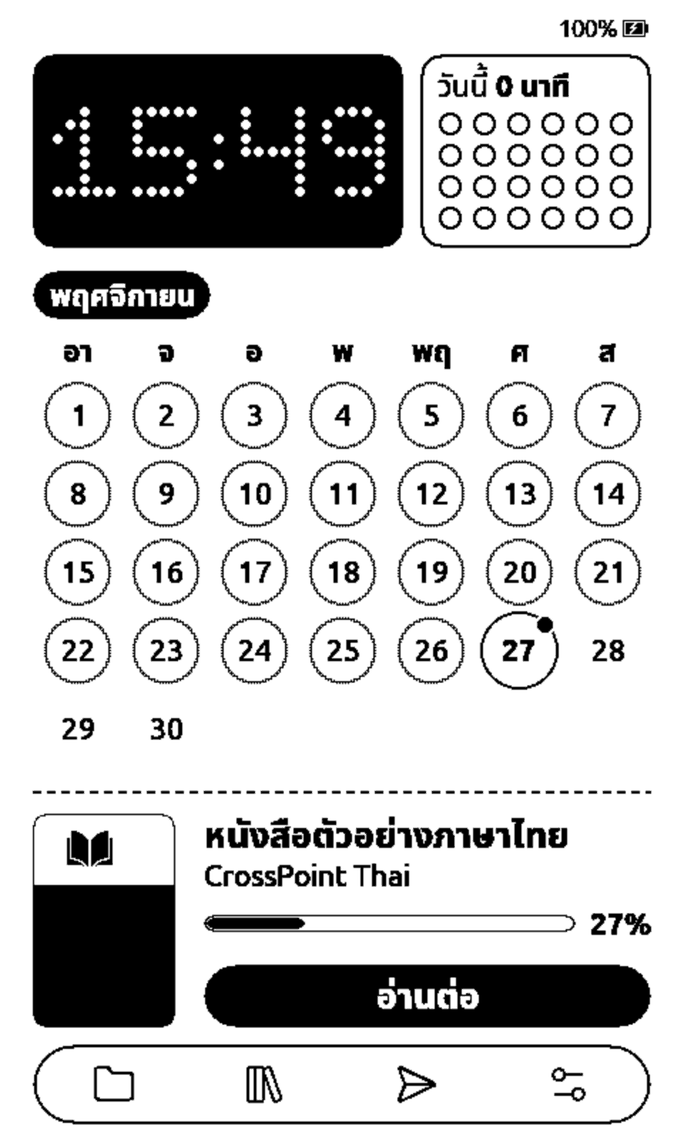
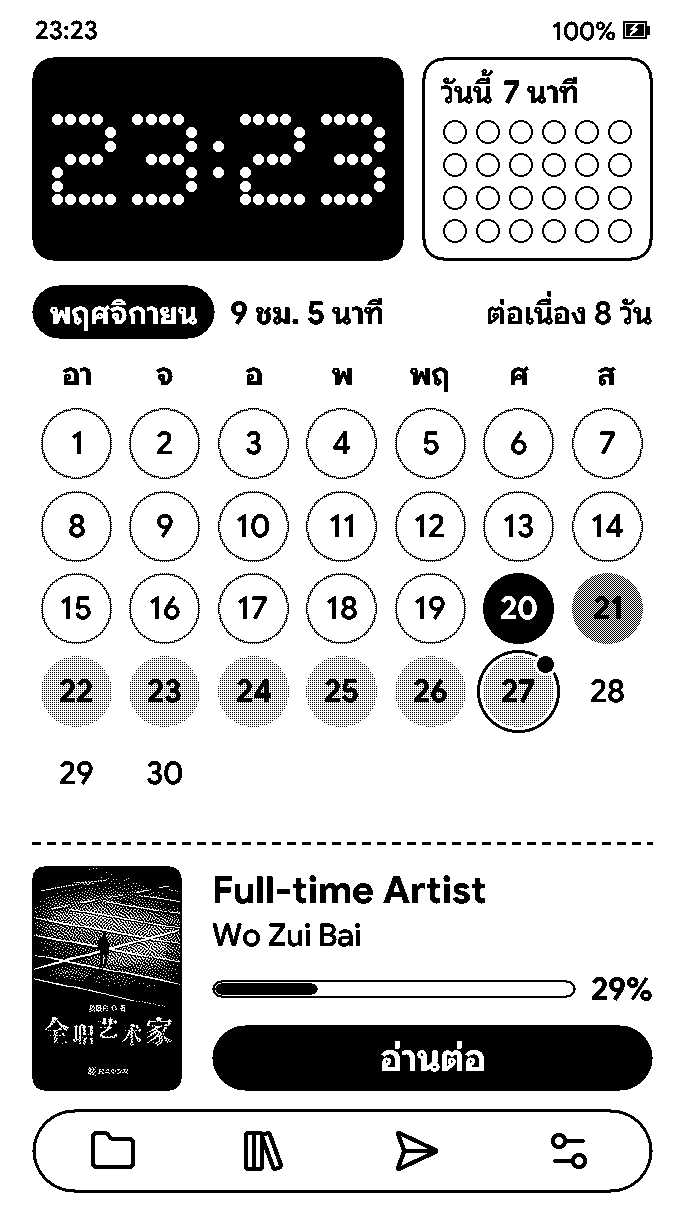
docs: Shelf theme in README and web flasher
- README: the four Home themes in one row (new Shelf shot, Calendar
  shot retaken on the E-Ink4-Plus); pill progress bar and button notes.
- Web flasher: the hero fan shows four themes (Ledger, Calendar, Shelf,
  Today); check_site.py requires home-shelf.png.

Verified: test_site.py 14/14, partitions.test.mjs 5/5; page checked in
headless Chrome at 1280 px and 500 px.

diff --git a/web-flasher/index.html b/web-flasher/index.html
@@ -63,13 +63,16 @@
             <figure class="screen fan-side fan-left">
               <img src="images/home-ledger.png" width="684" height="1216" alt="หน้า Home ธีม Ledger: หนังสือเล่มปัจจุบันและหนังสือล่าสุดพร้อมความคืบหน้า" />
             </figure>
-            <figure class="screen fan-center">
+            <figure class="screen fan-center fan-center-left">
               <img src="images/home-calendar.png" width="684" height="1216" alt="หน้า Home ธีม Calendar: นาฬิกาตัวเลขจุด เวลาอ่านวันนี้ และปฏิทินเดือนที่วงกลมเข้มตามเวลาอ่าน" />
+            </figure>
+            <figure class="screen fan-center fan-center-right">
+              <img src="images/home-shelf.png" width="684" height="1216" alt="หน้า Home ธีม Shelf: หนังสือเล่มปัจจุบัน ปกหนังสือที่อ่านล่าสุด และตารางเวลาอ่าน 30 วัน" />
             </figure>
             <figure class="screen fan-side fan-right">
               <img src="images/home-today.png" width="684" height="1216" alt="หน้า Home ธีม Today: กราฟเวลาอ่าน 7 วันล่าสุด" />
             </figure>
-            <p class="fan-caption">ธีมหน้า Home ใหม่ 3 แบบ <span>Ledger · Calendar · Today</span></p>
+            <p class="fan-caption">ธีมหน้า Home ใหม่ 4 แบบ <span>Ledger · Calendar · Shelf · Today</span></p>
           </div>
         </div>
       </section>

diff --git a/web-flasher/style.css b/web-flasher/style.css
@@ -245,7 +245,7 @@ code {
   background: #fff;
 }
 
-/* Hero: centred copy, then a fan of the three Home themes. */
+/* Hero: centred copy, then a fan of the four Home themes. */
 .hero {
   padding-top: clamp(56px, 9vw, 120px);
 }
@@ -322,17 +322,27 @@ code {
 }
 .fan-center {
   z-index: 2;
+  width: clamp(140px, 19vw, 260px) !important;
+}
+.fan-center-left {
+  rotate: -2deg;
+  margin-right: -10px;
+}
+.fan-center-right {
+  rotate: 2deg;
+  margin-left: -10px;
+  margin-top: 16px;
 }
 .fan-side {
-  margin-top: 56px;
-  width: clamp(120px, 18vw, 240px) !important;
+  margin-top: 64px;
+  width: clamp(110px, 15vw, 210px) !important;
 }
 .fan-left {
-  rotate: -6deg;
+  rotate: -7deg;
   margin-right: -28px;
 }
 .fan-right {
-  rotate: 6deg;
+  rotate: 7deg;
   margin-left: -28px;
 }
 .fan-caption {
@@ -834,17 +844,24 @@ details.sd ol li + li {
     border-radius: 8px;
   }
   .fan-center {
-    width: 46vw !important;
+    width: 32vw !important;
+  }
+  .fan-center-left {
+    margin-right: -1vw;
+  }
+  .fan-center-right {
+    margin-left: -1vw;
+    margin-top: 12px;
   }
   .fan-side {
-    width: 34vw !important;
-    margin-top: 40px;
+    width: 25vw !important;
+    margin-top: 44px;
   }
   .fan-left {
-    margin-right: -40px;
+    margin-right: -8vw;
   }
   .fan-right {
-    margin-left: -40px;
+    margin-left: -8vw;
   }
   .fan-caption span {
     display: block;

diff --git a/web-flasher/check_site.py b/web-flasher/check_site.py
@@ -13,6 +13,7 @@ from pathlib import Path
 IMAGES = [
     "home-calendar.png",
     "home-ledger.png",
+    "home-shelf.png",
     "home-today.png",
     "reader-thai.png",
     "settings-thai.png",
